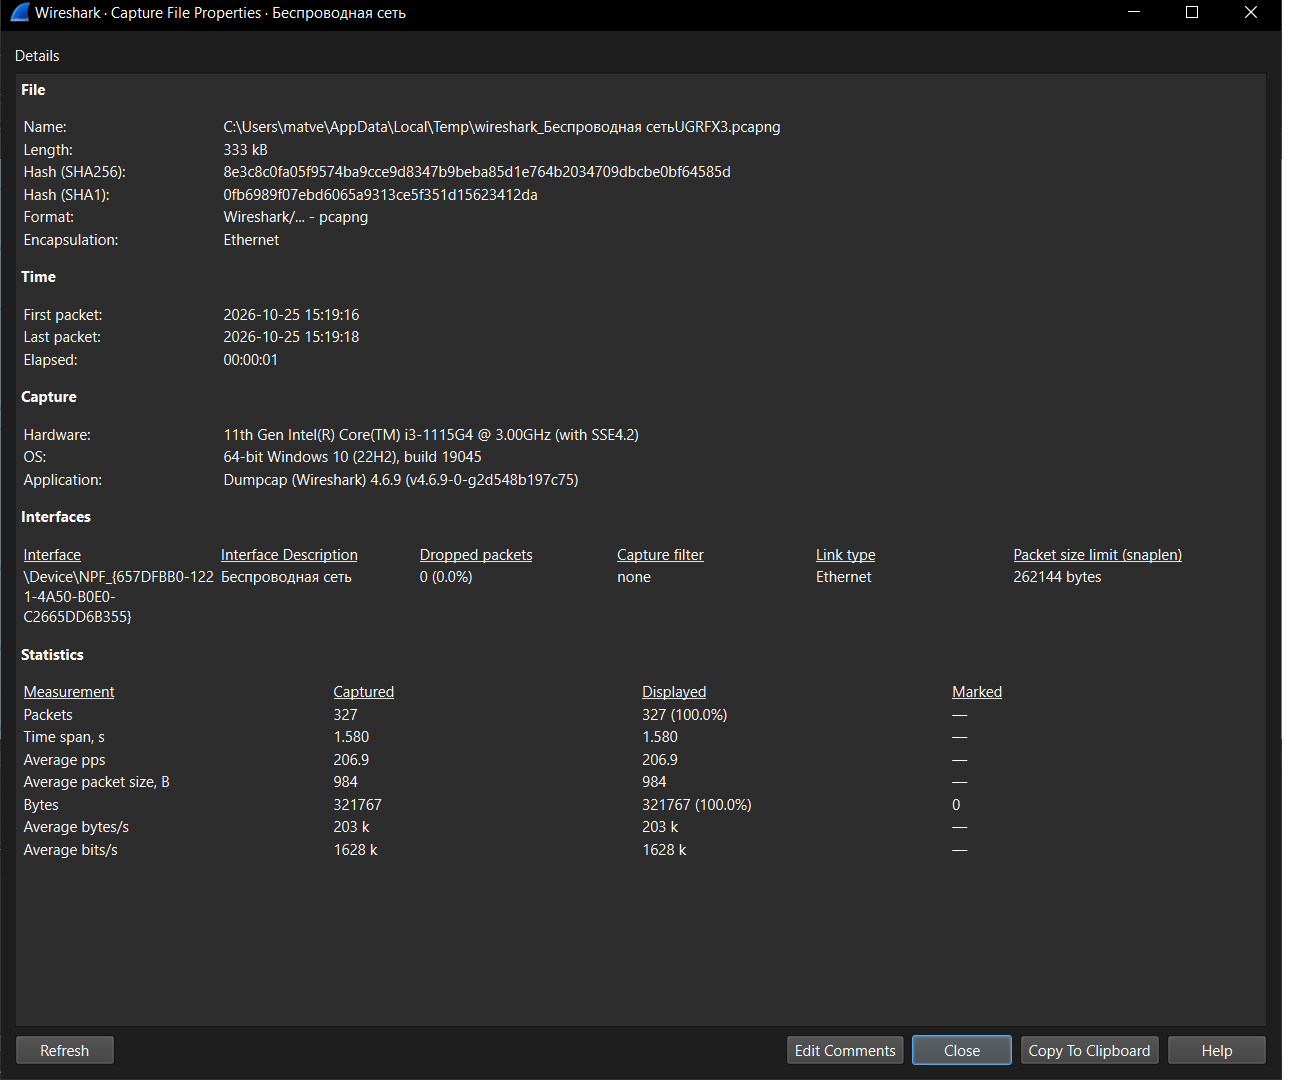
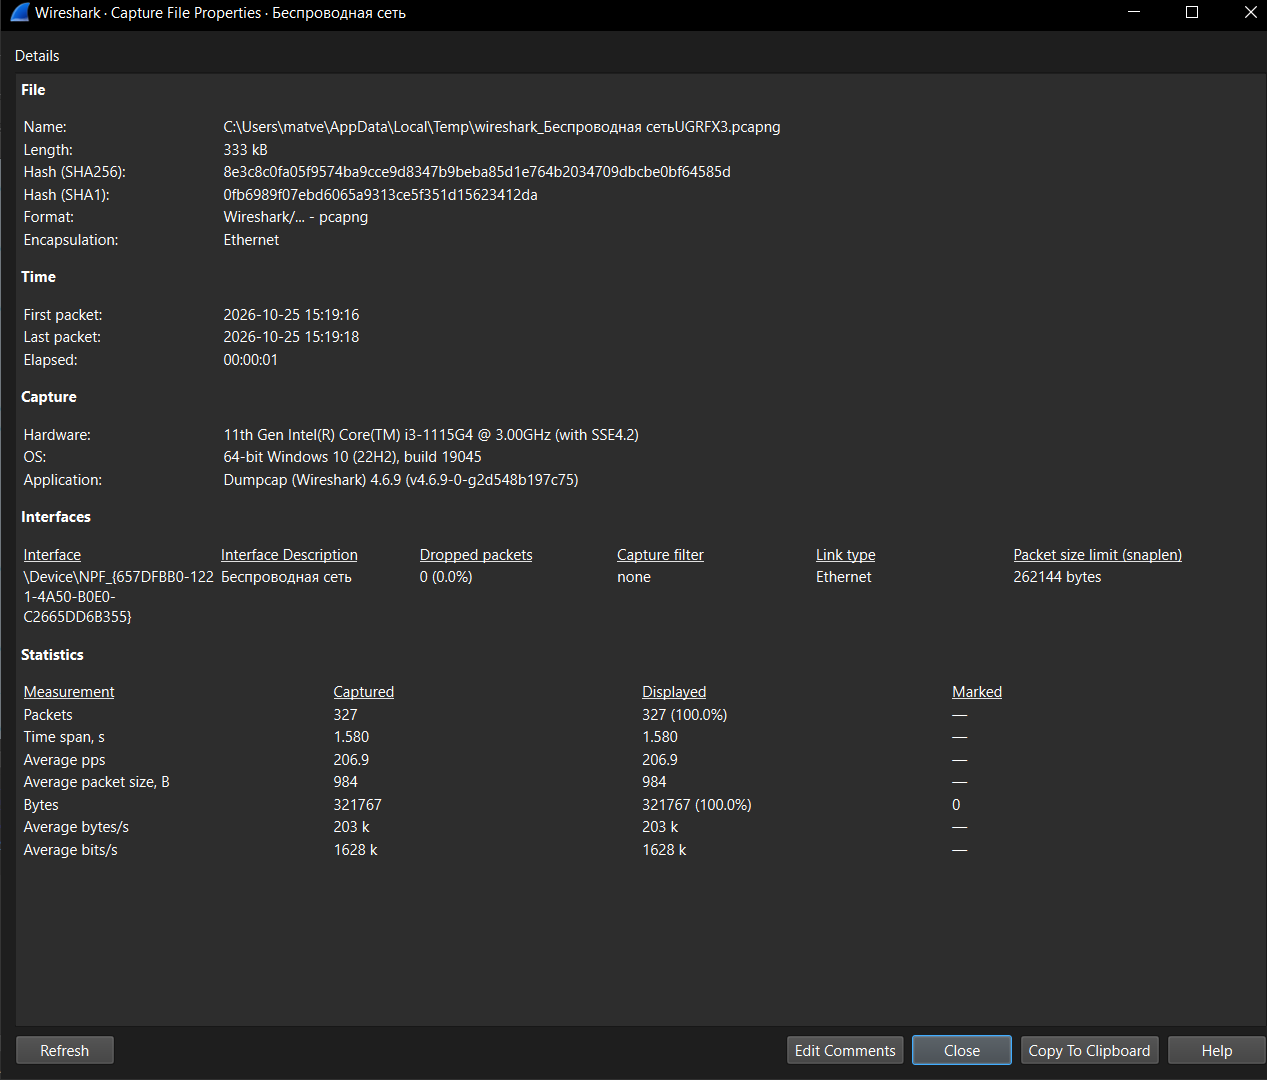
doc: update README.md file.

diff --git a/reports/Doroshenko/lab3/rep/README.md b/reports/Doroshenko/lab3/rep/README.md
@@ -137,18 +137,20 @@
 
 ## Задание 5
 
-![part1](../img/t7_1.png)
+![task_5_1](./img/task_5_1.png)
 
-## User Datagram Protocol
+### Заголовок UDP:
 
-![User Datagram Protocol](../img/t7_2.png)
+![task_5_2](./img/task_5_2.png)
 
-• **Source Port:** 59013.
-• **Destination Port:** 670.
-• **Length:** 11. Общая длина UDP-датаграммы (заголовок + данные).
-• **Checksum:** [Good Checksum: Unverified].
+- `Source Port`: 64985
+- `Destination Port`: 666
+- `Length`: 72
+- `Checksum`: 0xb49c [unverified]
 
-Пояснение по Checksum: Статус «Unverified» возникает из-за особенности работы сетевого стека Windows, который передает пакет на сетевой адаптер, оставляя вычисление контрольной суммы аппаратному обеспечению.
+### Диаграмма взаимодействия
+
+![task_5_3](./img/task_5_3.png)
 
 ---
 
@@ -156,17 +158,18 @@
 
 ![task_6_1](./img/task_6_1.png)
 
+### Заголовок ADR:
+
 ![task_6_2](./img/task_6_2.png)
 
-**Разбор структуры ARP-запроса:**
-• **Opcode:** request (1). Означает, что это ARP-запрос.
-• **Sender MAC address:** ec:91:61:8d:cd:1d (MAC-адрес твоего компьютера).
-• **Sender IP address:** 192.168.100.23.
-• **Target MAC address:** 00:00:00:00:00:00. Поле пустое, так как MAC-адрес искомого узла неизвестен.
-• **Target IP address:** 192.168.100.254. IP-адрес, который мы пытаемся найти.
+- `Opcode`: reply (2)
+- `Sender MAC address`: f2:4b:cf:f3:6b:b9 (f2:4b:cf:f3:6b:b9)
+- `Sender IP address`: 192.168.100.60
+- `Target MAC address`: CloudNetwork_51:bc:59 (10:6f:d9:51:bc:59)
+- `Target IP address`: 192.168.100.30
 
 ---
 
-# Вывод
+# Выводы
 
 В ходе работы были изучены базовые возможности программы Wireshark. Освоены методы захвата трафика, применения фильтров отображения и анализа структуры сетевых протоколов (Ethernet, IP, TCP, UDP, ICMP, ARP).
